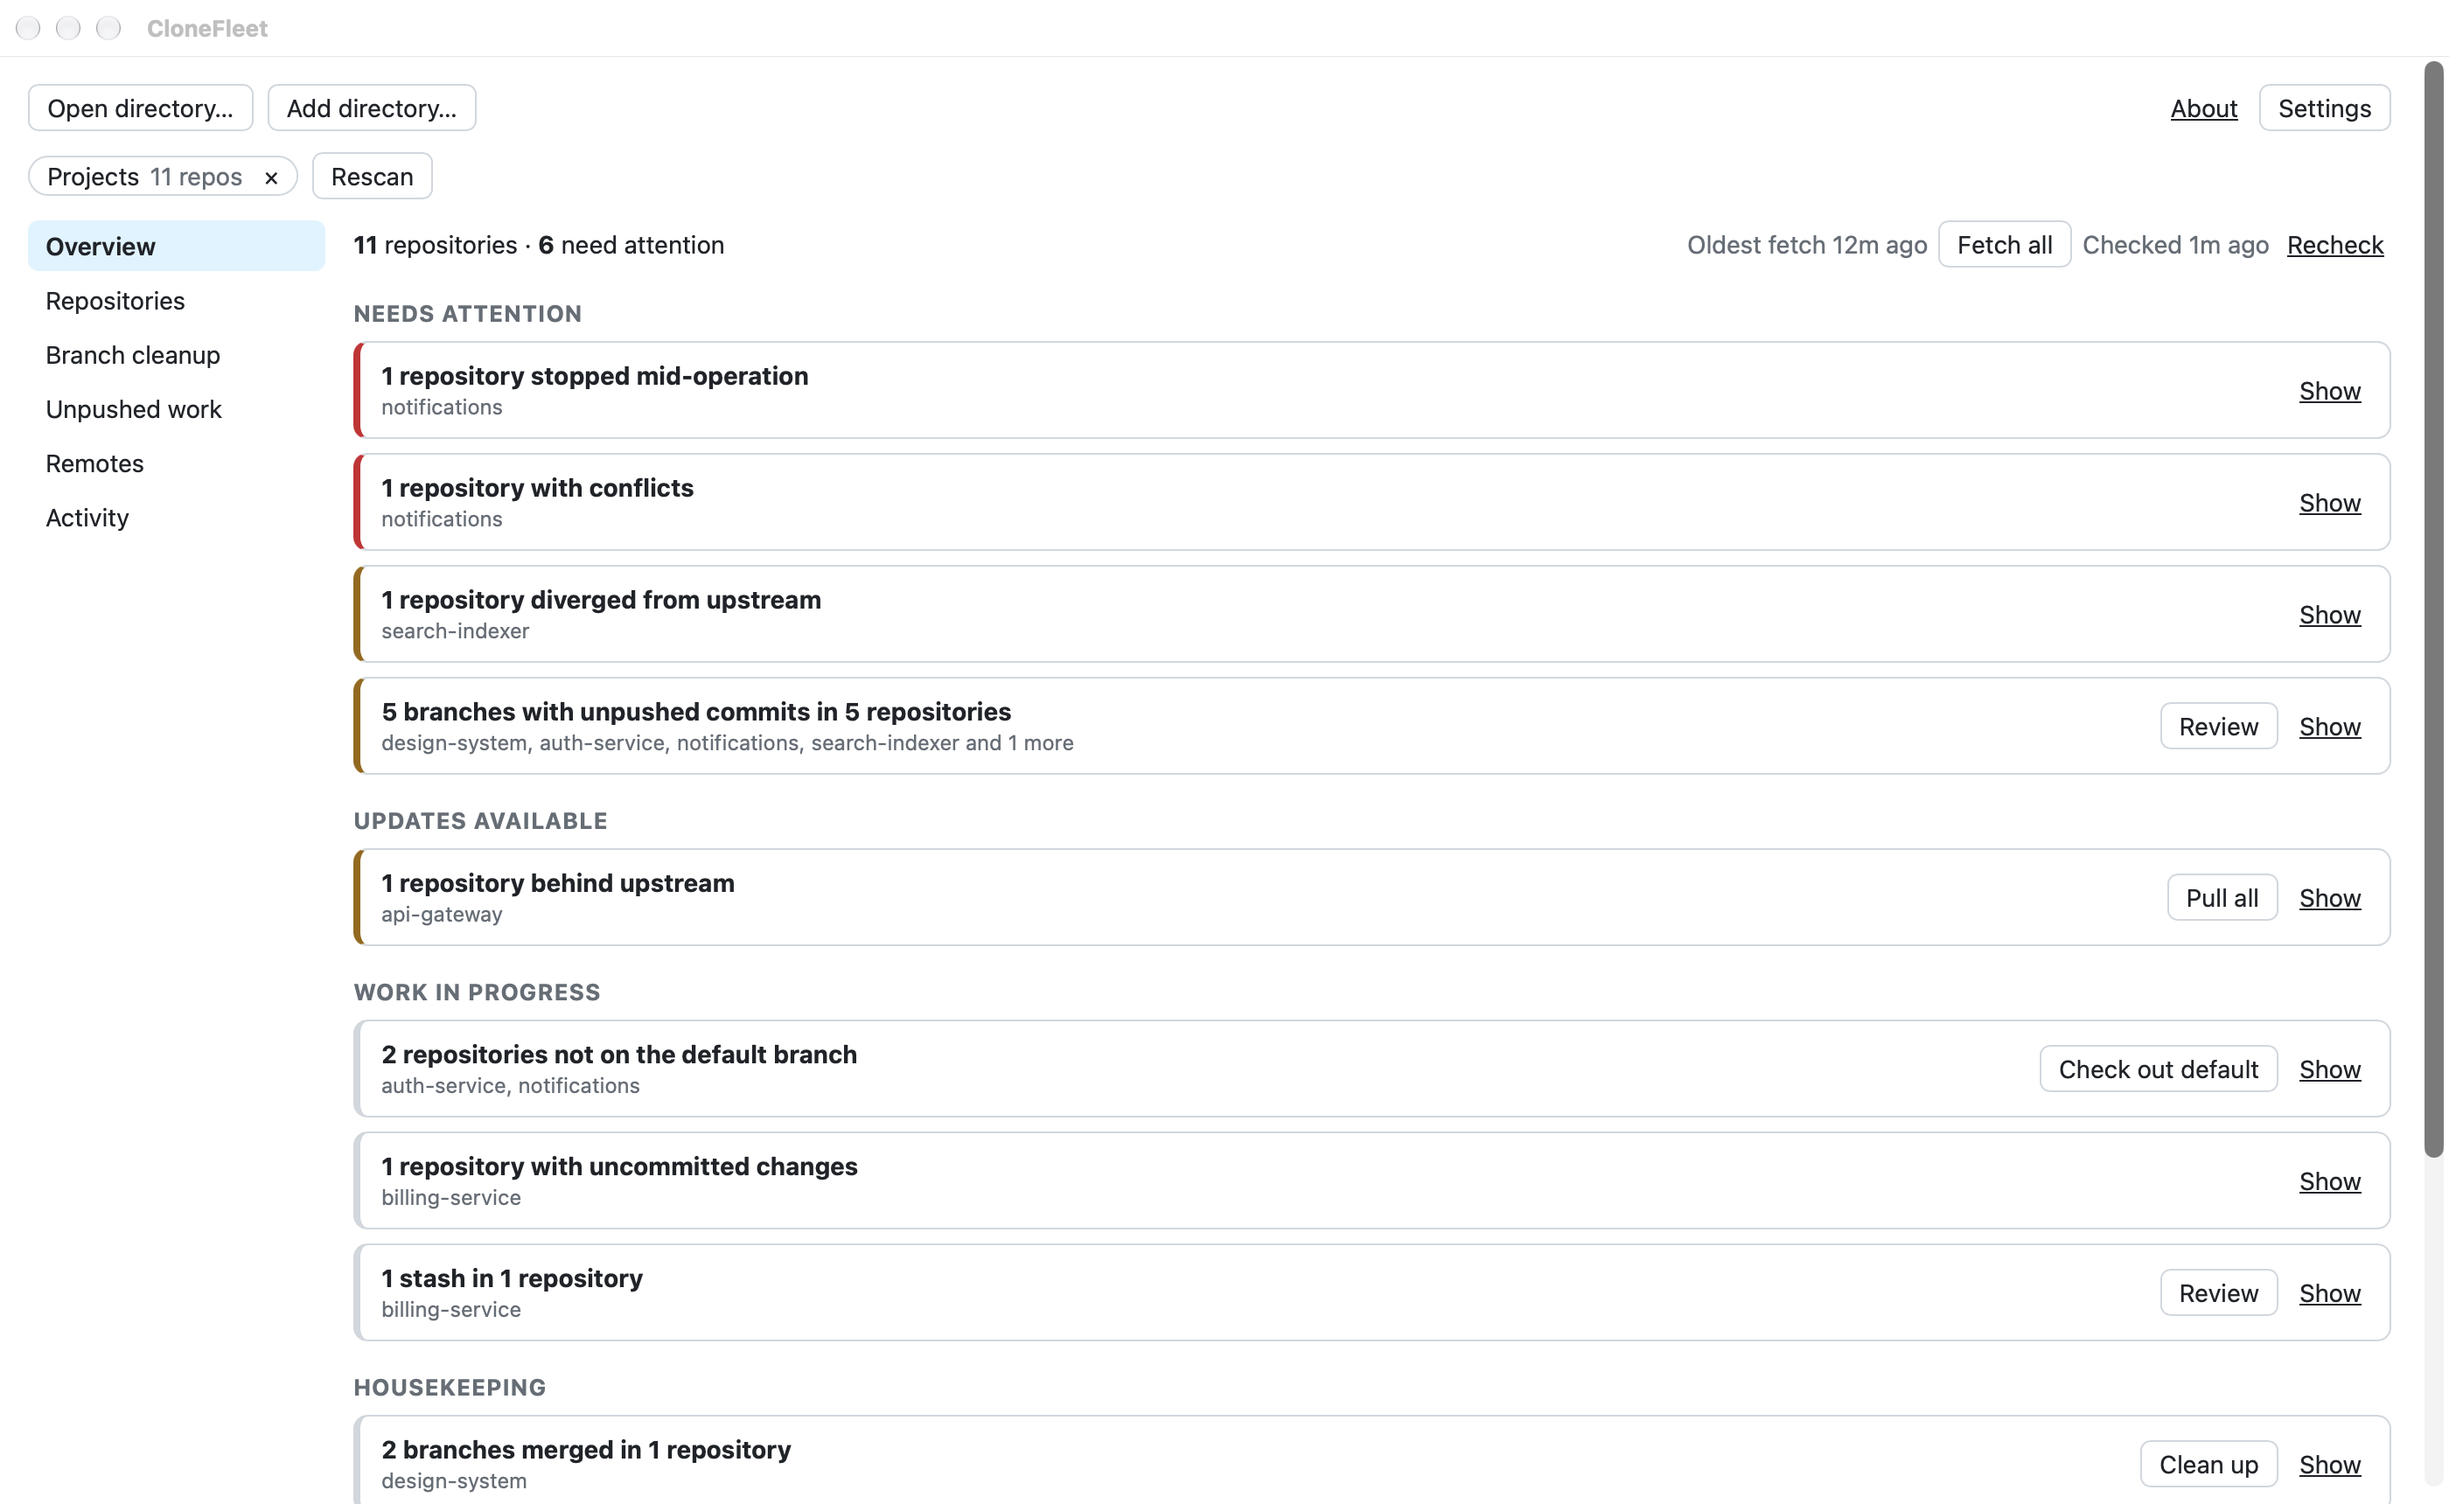
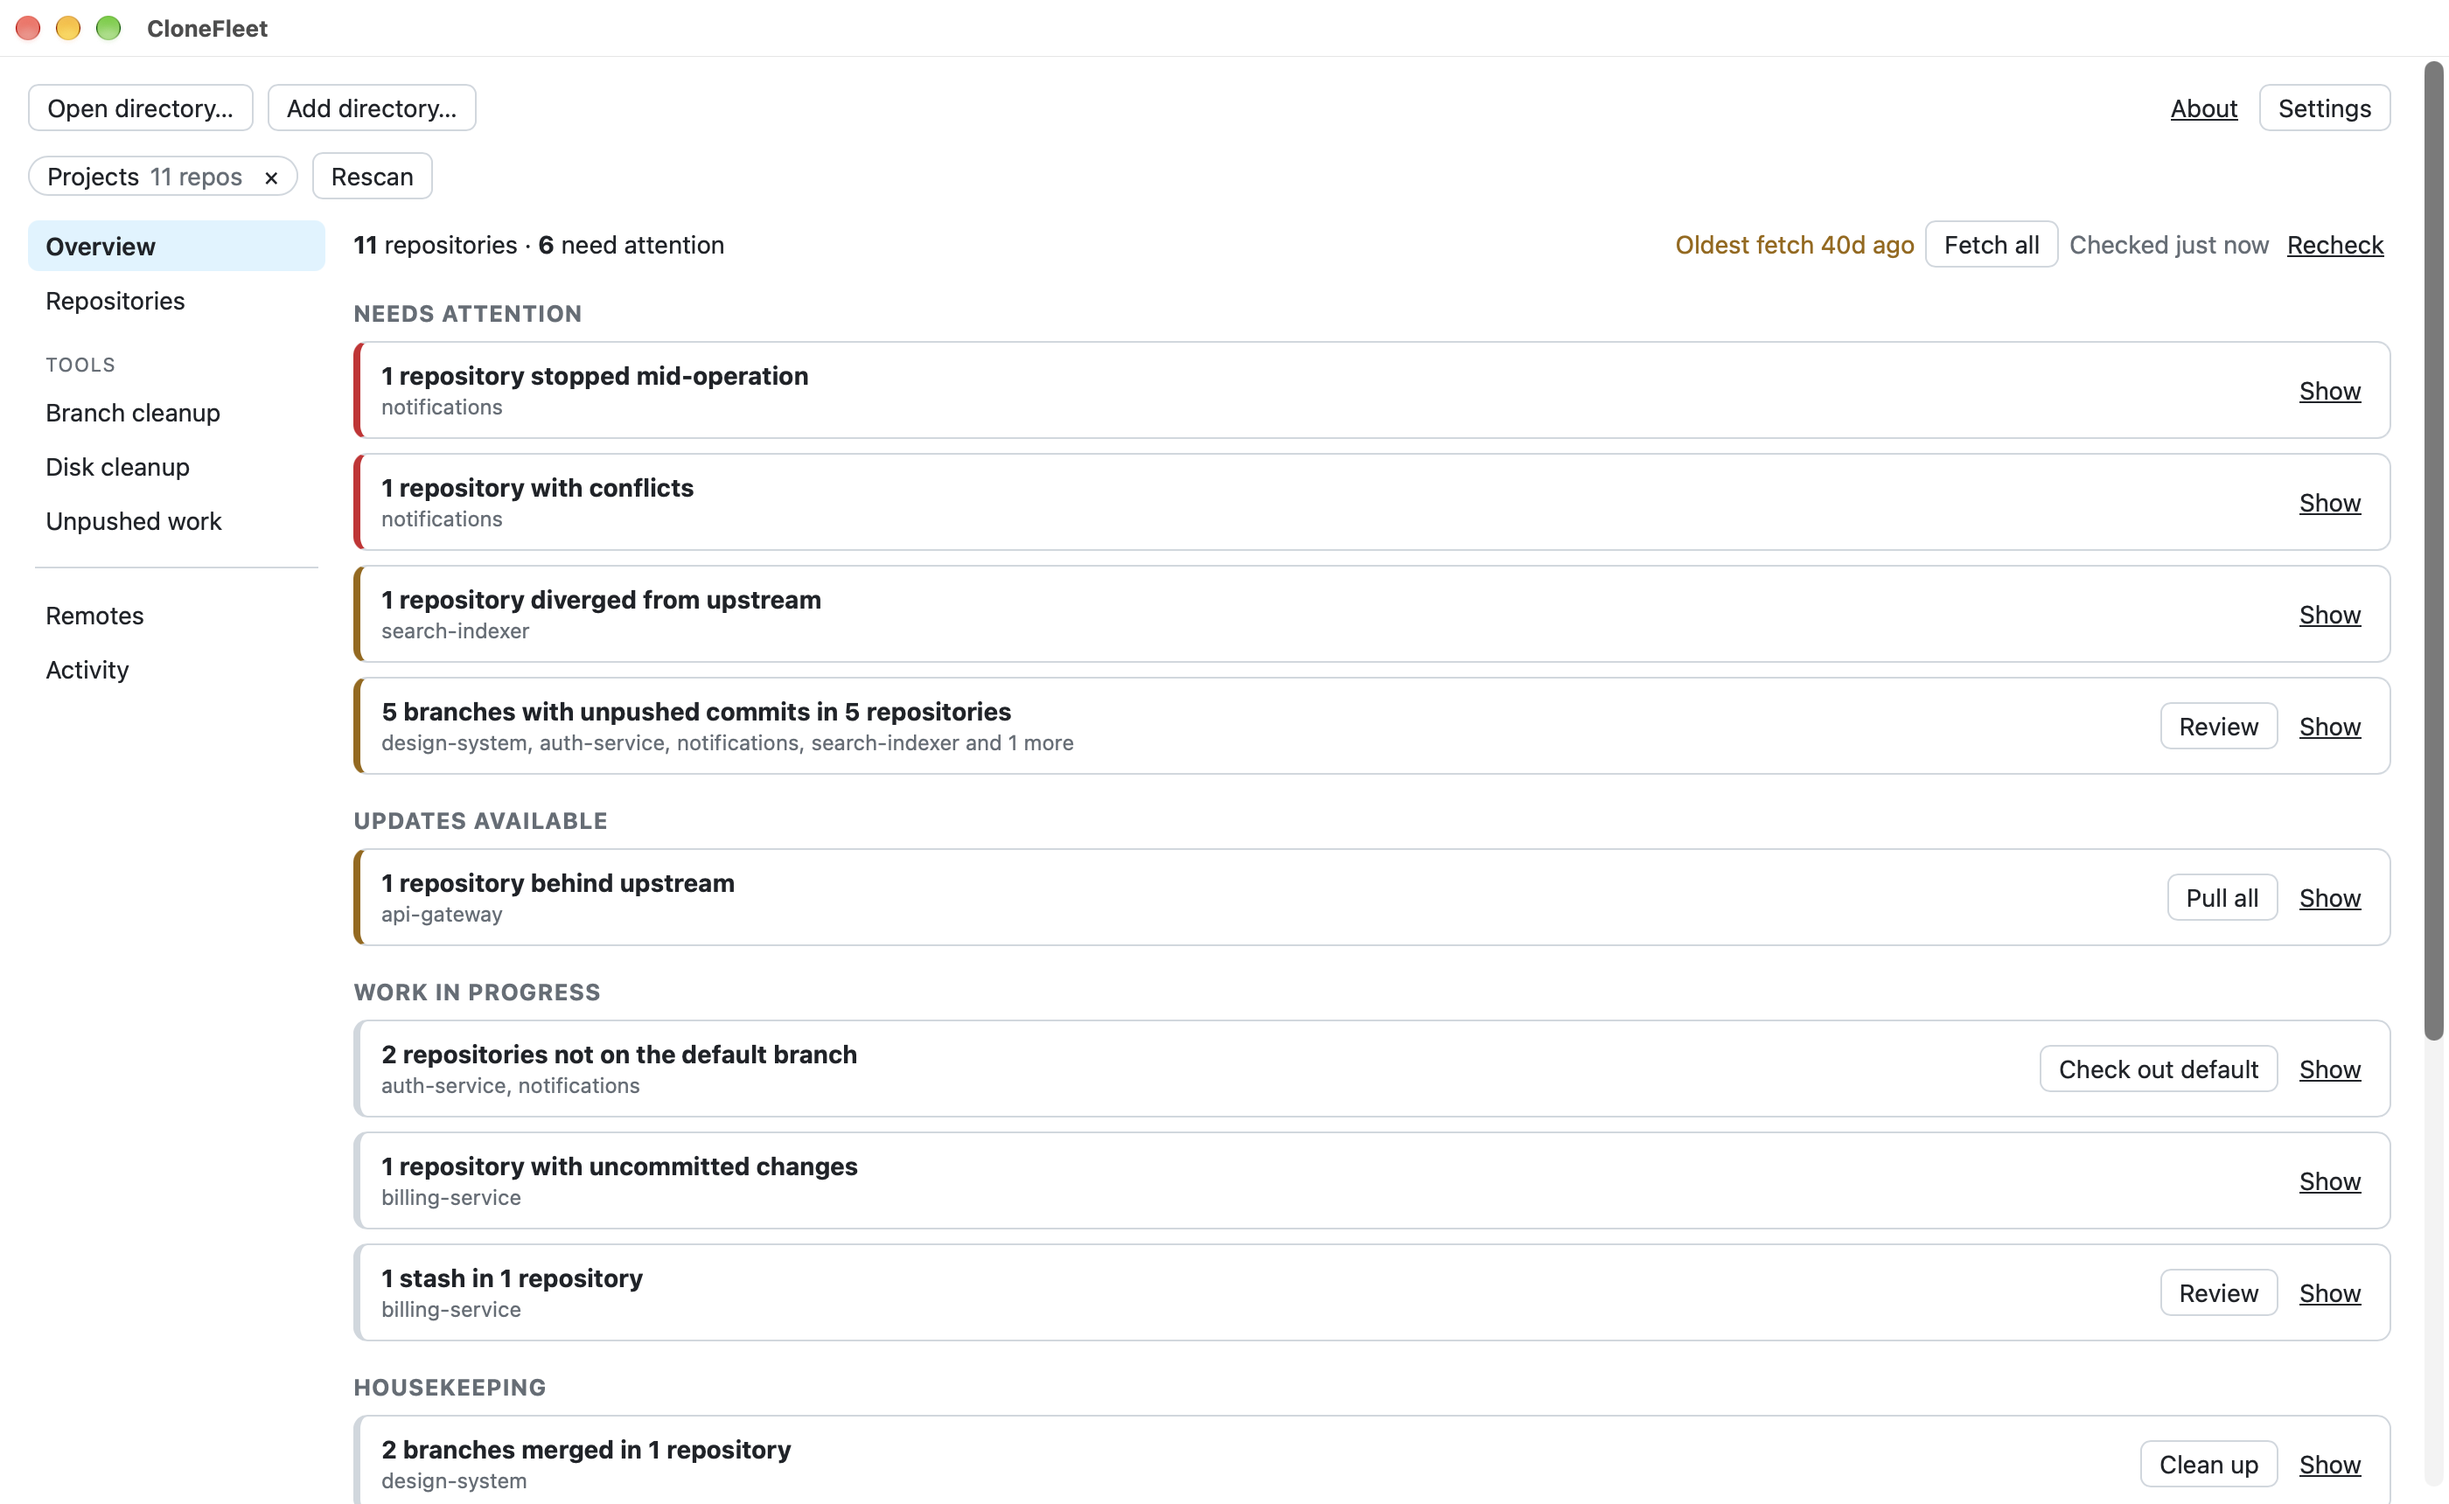
Explain disk cleanup categories and add screenshots
"Needs reinstalling" and "May not be reproducible" were only defined in
hover tooltips. Show a one-line definition for each category under the
toggles, linked to its checkbox with aria-describedby so screen readers
announce it too.

Add the disk cleanup page, before and after deleting, to the README
screenshots and to the capture list in docs/demo.md, and recapture the
overview so its sidebar shows the new page.

diff --git a/src/artifacts.ts b/src/artifacts.ts
@@ -1,16 +1,20 @@
 import type { Artifact, ArtifactTier } from "./types";
 
 export const ARTIFACT_TIERS: { value: ArtifactTier; label: string; hint: string }[] = [
-  { value: "buildOutput", label: "Build output", hint: "Recreated by the next build" },
+  {
+    value: "buildOutput",
+    label: "Build output",
+    hint: "Compiled files and caches, such as target, dist, and __pycache__. The next build or test run recreates them.",
+  },
   {
     value: "reinstall",
     label: "Needs reinstalling",
-    hint: "Run the install or build again, for example npm install or gradle build",
+    hint: "Downloaded dependencies and tool state, such as node_modules, .gradle, and .terraform. Run the install step again before building, for example npm install or terraform init.",
   },
   {
     value: "unreproducible",
     label: "May not be reproducible",
-    hint: "Python virtualenvs can hold packages installed by hand",
+    hint: "Python virtualenvs. Packages installed into one by hand aren't recorded anywhere, so recreating it can miss some.",
   },
 ];
 

diff --git a/src/components/ArtifactsView.tsx b/src/components/ArtifactsView.tsx
@@ -193,10 +193,11 @@ export function ArtifactsView({ paths, scans, onRescan }: Props) {
           <label key={tier.value}>
             <input
               type="checkbox"
+              aria-describedby={`tier-hint-${tier.value}`}
               checked={shown.has(tier.value)}
               onChange={() => toggleTier(tier.value)}
             />
-            <span title={tier.hint}>{tier.label}</span>
+            {tier.label}
           </label>
         ))}
         <label>
@@ -208,6 +209,14 @@ export function ArtifactsView({ paths, scans, onRescan }: Props) {
           Hide repositories with nothing to clean up
         </label>
       </div>
+
+      <ul className="muted hint tier-hints">
+        {ARTIFACT_TIERS.map((tier) => (
+          <li key={tier.value} id={`tier-hint-${tier.value}`}>
+            <strong>{tier.label}:</strong> {tier.hint}
+          </li>
+        ))}
+      </ul>
 
       <div className="toolbar">
         <button disabled={busy || targets.length === 0} onClick={deleteSelected}>

diff --git a/src/components/ArtifactsView.test.tsx b/src/components/ArtifactsView.test.tsx
@@ -94,6 +94,18 @@ describe("ArtifactsView", () => {
     expect(screen.getByRole("button", { name: "Delete 2 directories (4.0 MB)" })).toBeEnabled();
   });
 
+  it("explains each category next to its toggle", () => {
+    mockBackend();
+    renderView();
+
+    expect(
+      screen.getByRole("checkbox", { name: "Needs reinstalling" }),
+    ).toHaveAccessibleDescription(/Run the install step again before building/);
+    expect(
+      screen.getByRole("checkbox", { name: "May not be reproducible" }),
+    ).toHaveAccessibleDescription(/Python virtualenvs/);
+  });
+
   it("lists the other tiers unselected when their toggles are turned on", async () => {
     mockBackend();
     renderView();

diff --git a/src/App.css b/src/App.css
@@ -747,6 +747,12 @@ input.days {
   margin-top: 2px;
 }
 
+.tier-hints {
+  list-style: none;
+  margin: 0 0 8px;
+  padding: 0;
+}
+
 .sort-button {
   border: none;
   padding: 0;

diff --git a/README.md b/README.md
@@ -37,12 +37,14 @@ Your fleet of Git clones, under one command. A cross-platform desktop app to kee
 
 ## Screenshots
 
-|                                                                                                                     |                                                                                                                                       |
-| ------------------------------------------------------------------------------------------------------------------- | ------------------------------------------------------------------------------------------------------------------------------------- |
-| ![Repositories list with three selected and the action bar pinned to the bottom](docs/screenshots/repositories.png) | ![Branch and worktree cleanup with merged, squash-merged, remote-deleted, and stale branches in a tree](docs/screenshots/cleanup.png) |
-| **Repositories**: filter, sort, select, and run an action on many repositories at once.                             | **Branch & worktree cleanup**: merged branches are found even after squash and rebase merges.                                         |
-| ![A branch's commits and diff in the repository details panel](docs/screenshots/branch-diff.png)                    | ![Remotes page with each remote checked and a bulk URL editor](docs/screenshots/remotes.png)                                          |
-| **Branch details**: see what an unmerged branch contains before deleting it.                                        | **Remotes**: check every remote, fix moved ones, and rewrite URLs in bulk.                                                            |
+|                                                                                                                                 |                                                                                                                                       |
+| ------------------------------------------------------------------------------------------------------------------------------- | ------------------------------------------------------------------------------------------------------------------------------------- |
+| ![Repositories list with three selected and the action bar pinned to the bottom](docs/screenshots/repositories.png)             | ![Branch and worktree cleanup with merged, squash-merged, remote-deleted, and stale branches in a tree](docs/screenshots/cleanup.png) |
+| **Repositories**: filter, sort, select, and run an action on many repositories at once.                                         | **Branch & worktree cleanup**: merged branches are found even after squash and rebase merges.                                         |
+| ![A branch's commits and diff in the repository details panel](docs/screenshots/branch-diff.png)                                | ![Remotes page with each remote checked and a bulk URL editor](docs/screenshots/remotes.png)                                          |
+| **Branch details**: see what an unmerged branch contains before deleting it.                                                    | **Remotes**: check every remote, fix moved ones, and rewrite URLs in bulk.                                                            |
+| ![Disk cleanup listing dist, node_modules, a virtualenv, and .terraform with sizes and ages](docs/screenshots/disk-cleanup.png) | ![Disk cleanup after deleting dist, reporting the space freed](docs/screenshots/disk-cleanup-deleted.png)                             |
+| **Disk cleanup**: find build output, dependencies, and virtualenvs that git ignores, with their sizes.                          | **After deleting**: each result says what was removed and how much space it freed.                                                    |
 
 The screenshots use the made-up repositories from `pnpm demo`; see [docs/demo.md](docs/demo.md).
 

diff --git a/docs/demo.md b/docs/demo.md
@@ -64,10 +64,12 @@ cargo run --manifest-path src-tauri/Cargo.toml --example demo_home -- /tmp/clone
 1. Run `pnpm demo` and resize the window to 1400 × 860 points. Leave the theme on System, or switch it in Settings for a dark capture.
 2. Capture each screen. On macOS, `screencapture -o -l <window id> docs/screenshots/<name>.png` captures just the window (Screen Recording permission is required), or press ⇧⌘4, then Space, then ⌥-click the window.
 
-| File                                | Screen                                                                                |
-| ----------------------------------- | ------------------------------------------------------------------------------------- |
-| `docs/screenshots/overview.png`     | **Overview**, right after launch                                                      |
-| `docs/screenshots/repositories.png` | **Repositories**, with `api-gateway`, `billing-service`, and `design-system` selected |
-| `docs/screenshots/cleanup.png`      | **Branch cleanup**                                                                    |
-| `docs/screenshots/branch-diff.png`  | **Branch cleanup**, then click `eslint-9` to open its details on the **Branches** tab |
-| `docs/screenshots/remotes.png`      | **Remotes** after **Check all remotes**                                               |
+| File                                        | Screen                                                                                  |
+| ------------------------------------------- | --------------------------------------------------------------------------------------- |
+| `docs/screenshots/overview.png`             | **Overview**, right after launch                                                        |
+| `docs/screenshots/repositories.png`         | **Repositories**, with `api-gateway`, `billing-service`, and `design-system` selected   |
+| `docs/screenshots/cleanup.png`              | **Branch cleanup**                                                                      |
+| `docs/screenshots/branch-diff.png`          | **Branch cleanup**, then click `eslint-9` to open its details on the **Branches** tab   |
+| `docs/screenshots/remotes.png`              | **Remotes** after **Check all remotes**                                                 |
+| `docs/screenshots/disk-cleanup.png`         | **Disk cleanup** with **Needs reinstalling** and **May not be reproducible** also shown |
+| `docs/screenshots/disk-cleanup-deleted.png` | The same, after **Delete 1 directory** removes the preselected `dist`                   |
